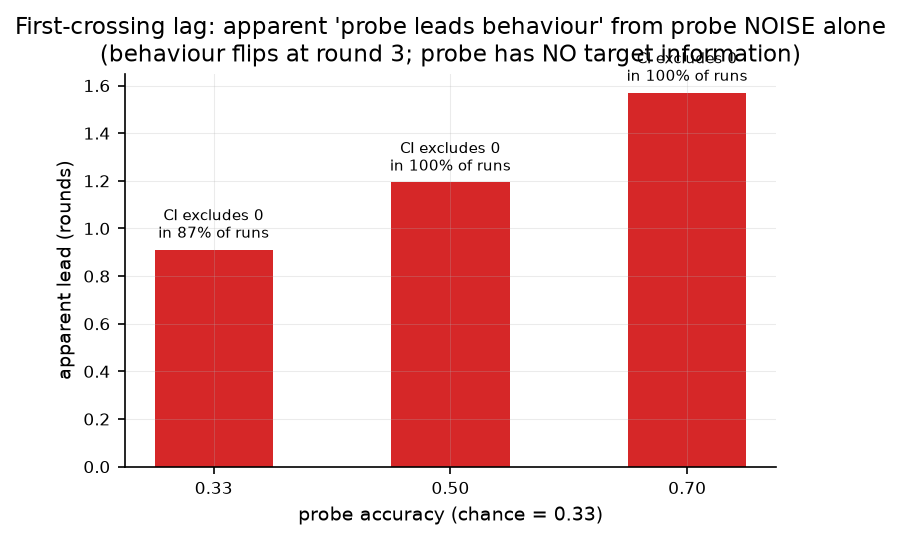
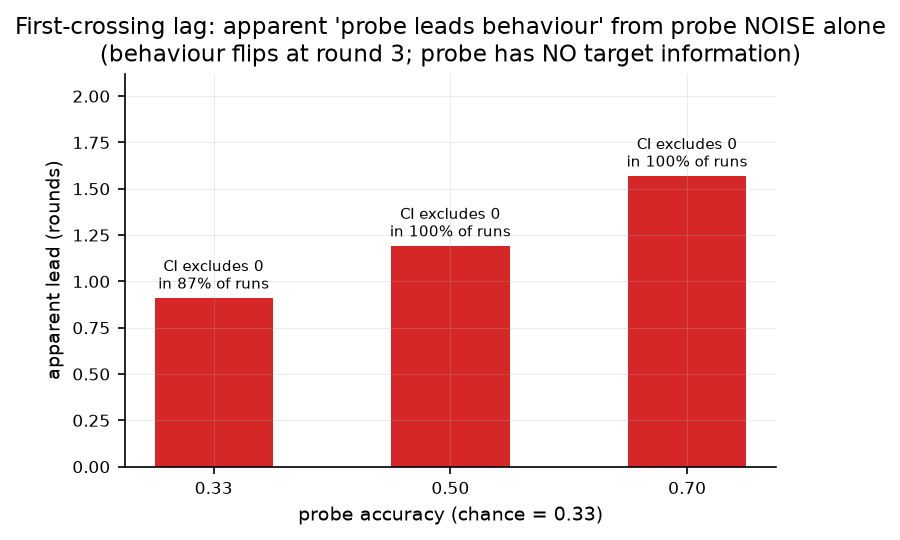
Write-up materials: fig5 headroom; skeleton bullet quotes fig5's own numbers, review's noted separately

diff --git a/scripts/make_writeup_materials.py b/scripts/make_writeup_materials.py
@@ -134,10 +134,12 @@ def fig5_first_crossing_bias():
             d = np.array(d, float); boots = [rng.choice(d, len(d)).mean() for _ in range(300)]; lo = np.quantile(boots, .025); leads.append(d.mean()); excl += lo > 0
         res.append((acc, np.mean(leads), excl / reps))
     fig, ax = plt.subplots(figsize=(5.6, 3.4), dpi=150); ax.bar([("%.2f" % a) for a, _, _ in res], [l for _, l, _ in res], color="#d62728", width=.5)
+    ax.set_ylim(0, max(l for _, l, _ in res) * 1.35)
     for i, (a, l, e) in enumerate(res): ax.text(i, l + .05, "CI excludes 0\nin %.0f%% of runs" % (100 * e), ha="center", fontsize=7)
     style(ax, "First-crossing lag: apparent 'probe leads behaviour' from probe NOISE alone\n(behaviour flips at round 3; probe has NO target information)", "probe accuracy (chance = 0.33)", "apparent lead (rounds)")
     fig.savefig(os.path.join(OUT, "fig_w5_first_crossing_bias.png"), bbox_inches="tight"); plt.close(fig)
-    for a, l, e in res: N("first-crossing bias at probe acc %.2f: apparent lead / CI-excludes-0 rate" % a, "%.2f / %.2f" % (l, e), "scripts/make_writeup_materials.py fig5 (seed 0)")
+    for a, l, e in res: N("first-crossing bias at probe acc %.2f: apparent lead / CI-excludes-0 rate" % a, "%.2f / %.2f" % (l, e), "scripts/make_writeup_materials.py fig5 (seed 0; simpler noise model than docs/V7_REVIEW.md, which reported 0.74 / 0.71)")
+    return res
 
 
 def random_examples(k=5, seed=0):
@@ -153,7 +155,7 @@ def random_examples(k=5, seed=0):
 def main():
     os.makedirs(OUT, exist_ok=True)
     s = json.load(open(V4_SUM))
-    fig1_learning(); per, grp = fig2_swap(); fig3_priors(); fig4_v8_power(); fig5_first_crossing_bias()
+    fig1_learning(); per, grp = fig2_swap(); fig3_priors(); fig4_v8_power(); fc = fig5_first_crossing_bias()
     m = s["stable_condition_metrics"]; pv = {}
     def walk(x, pre=""):
         for kk, v in (x.items() if isinstance(x, dict) else []):
@@ -174,7 +176,7 @@ def main():
           "- Result 2 (revision): after the silent swap, new-frame use rose and old-frame use fell *symmetrically*; the registered final new-vs-old test failed. Mechanism: a large expertise default — swaps into expertise adapted %s, into fairness %s (fig_w2)." % (next(("%d of %d" % (r.adapted, r.n)) for _, r in grp.iterrows() if r.dir.startswith("into")), "%d of %d" % (int(per[per.new_type == "fairness"].adapted.sum()), int(per[per.new_type == "fairness"].n.sum()))),
           "- Result 3 (cross-family default): no-history frame shares — Qwen V4 bank %s; Qwen V5 bank %s; Gemma-4-31B V5 bank %s. The expertise attractor is a task property, not a model quirk (fig_w3)." % (numbers[[n[0] for n in numbers].index("Qwen V4-bank no-history shares (f/r/e)")][1], numbers[[n[0] for n in numbers].index("Qwen V5-bank no-history shares (f/r/e)")][1], numbers[[n[0] for n in numbers].index("Gemma-4 V5-bank no-history shares (f/r/e)")][1]),
           "- Result 4 (four successors, four pre-registered stops): V5 (bank cannot be balanced), V6 (balance gate infeasible at every N; 120k-study screen), V7 (own feasibility rule fails; adversarial review: pooled rule passes on default-attraction), V8 (destination-stratified gate underpowered at N≤30 vs the weakest registered learner; Type I controlled, 0 joint rejections / 6,000 null studies). Nothing frozen or spent after a failed gate.",
-          "- Methodological finding: a first-crossing 'probe leads behaviour' lag metric is biased by probe noise — a chance-level probe appears to lead by ~0.7 rounds with a CI excluding 0 in ~70% of runs (fig_w5). Replaced before any real probe was trained.",
+          "- Methodological finding: a first-crossing 'probe leads behaviour' lag metric is biased by probe noise — a chance-level probe appears to lead by %.2f rounds with a CI excluding 0 in %.0f%% of runs under fig_w5's noise model (0.74 rounds / 71%% under the review's). Replaced before any real probe was trained." % (fc[0][1], 100 * fc[0][2]),
           "- What was NOT done: no activation capture, probe, or steering on a real model (gated behind a passed revision test that never came); no human validation of the message bank (two blind machine judges only).",
           "", "## Randomly selected V4 examples (seed 0, lines drawn uniformly from the 7,200-record log)", "",
           "The model sees the three candidates **without** frame labels; labels shown here are the registered ground truth. `→` marks the model's choice."]

diff --git a/results/writeup/WRITEUP_MATERIALS.md b/results/writeup/WRITEUP_MATERIALS.md
@@ -10,7 +10,7 @@ Generated by `scripts/make_writeup_materials.py` from committed artifacts. Every
 - Result 2 (revision): after the silent swap, new-frame use rose and old-frame use fell *symmetrically*; the registered final new-vs-old test failed. Mechanism: a large expertise default — swaps into expertise adapted 34 of 40, into fairness 0 of 40 (fig_w2).
 - Result 3 (cross-family default): no-history frame shares — Qwen V4 bank 0.013 / 0.065 / 0.922 (n=1200); Qwen V5 bank 0.137 / 0.342 / 0.521; Gemma-4-31B V5 bank 0.240 / 0.122 / 0.639. The expertise attractor is a task property, not a model quirk (fig_w3).
 - Result 4 (four successors, four pre-registered stops): V5 (bank cannot be balanced), V6 (balance gate infeasible at every N; 120k-study screen), V7 (own feasibility rule fails; adversarial review: pooled rule passes on default-attraction), V8 (destination-stratified gate underpowered at N≤30 vs the weakest registered learner; Type I controlled, 0 joint rejections / 6,000 null studies). Nothing frozen or spent after a failed gate.
-- Methodological finding: a first-crossing 'probe leads behaviour' lag metric is biased by probe noise — a chance-level probe appears to lead by ~0.7 rounds with a CI excluding 0 in ~70% of runs (fig_w5). Replaced before any real probe was trained.
+- Methodological finding: a first-crossing 'probe leads behaviour' lag metric is biased by probe noise — a chance-level probe appears to lead by 0.91 rounds with a CI excluding 0 in 87% of runs under fig_w5's noise model (0.74 rounds / 71% under the review's). Replaced before any real probe was trained.
 - What was NOT done: no activation capture, probe, or steering on a real model (gated behind a passed revision test that never came); no human validation of the message bank (two blind machine judges only).
 
 ## Randomly selected V4 examples (seed 0, lines drawn uniformly from the 7,200-record log)
@@ -87,9 +87,9 @@ The model sees the three candidates **without** frame labels; labels shown here 
 | V8 qwen38_v5bank_heldout learner_1 N=30 V8-complete lower / stratified-test rate | 0.628 / 0.674 | `v8_screen_qwen_measured.json` |
 | V8 qwen38_v5bank_heldout learner_2 N=30 V8-complete lower / stratified-test rate | 0.849 / 0.880 | `v8_screen_qwen_measured.json` |
 | V8 qwen38_v5bank_heldout learner_3 N=30 V8-complete lower / stratified-test rate | 0.918 / 0.970 | `v8_screen_qwen_measured.json` |
-| first-crossing bias at probe acc 0.33: apparent lead / CI-excludes-0 rate | 0.91 / 0.87 | `scripts/make_writeup_materials.py fig5 (seed 0)` |
-| first-crossing bias at probe acc 0.50: apparent lead / CI-excludes-0 rate | 1.19 / 1.00 | `scripts/make_writeup_materials.py fig5 (seed 0)` |
-| first-crossing bias at probe acc 0.70: apparent lead / CI-excludes-0 rate | 1.57 / 1.00 | `scripts/make_writeup_materials.py fig5 (seed 0)` |
+| first-crossing bias at probe acc 0.33: apparent lead / CI-excludes-0 rate | 0.91 / 0.87 | `scripts/make_writeup_materials.py fig5 (seed 0; simpler noise model than docs/V7_REVIEW.md, which reported 0.74 / 0.71)` |
+| first-crossing bias at probe acc 0.50: apparent lead / CI-excludes-0 rate | 1.19 / 1.00 | `scripts/make_writeup_materials.py fig5 (seed 0; simpler noise model than docs/V7_REVIEW.md, which reported 0.74 / 0.71)` |
+| first-crossing bias at probe acc 0.70: apparent lead / CI-excludes-0 rate | 1.57 / 1.00 | `scripts/make_writeup_materials.py fig5 (seed 0; simpler noise model than docs/V7_REVIEW.md, which reported 0.74 / 0.71)` |
 | V4 full_history learning gain (late held-out − early), 95% CI | 0.187 [0.083, 0.290], n=60 | `v4_checkpoint_summary.json stable_condition_metrics.full_history.learning_gain` |
 | V4 no_history learning gain (late held-out − early), 95% CI | 0.000 [-0.040, 0.040], n=60 | `v4_checkpoint_summary.json stable_condition_metrics.no_history.learning_gain` |
 | V4 shuffled_history learning gain (late held-out − early), 95% CI | -0.053 [-0.137, 0.030], n=60 | `v4_checkpoint_summary.json stable_condition_metrics.shuffled_history.learning_gain` |
